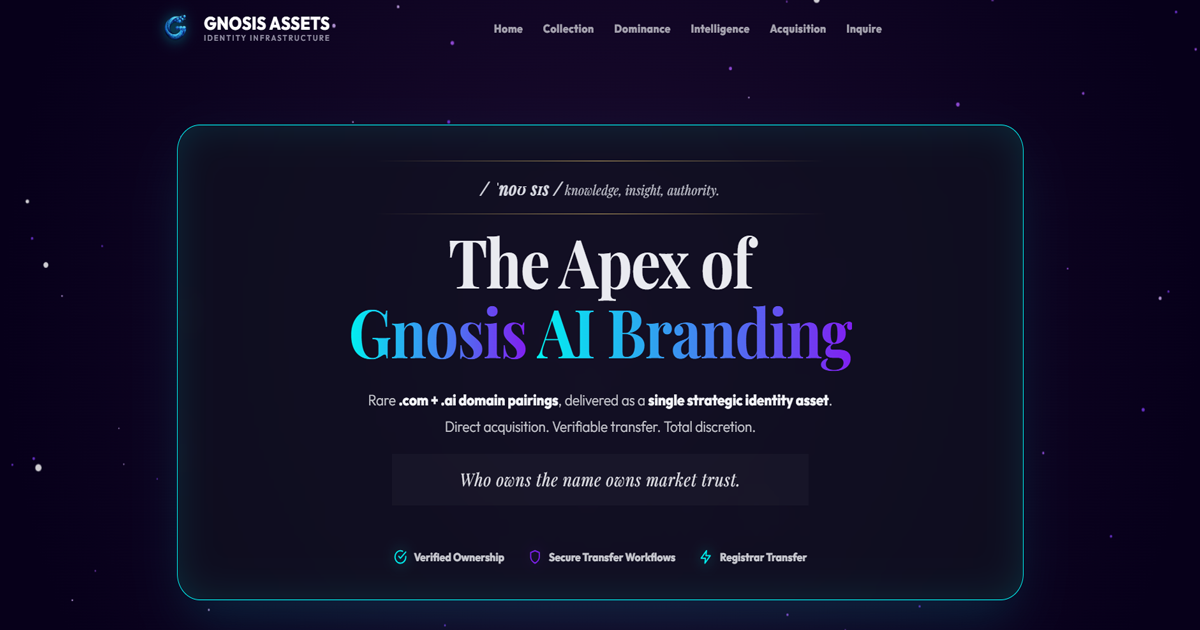
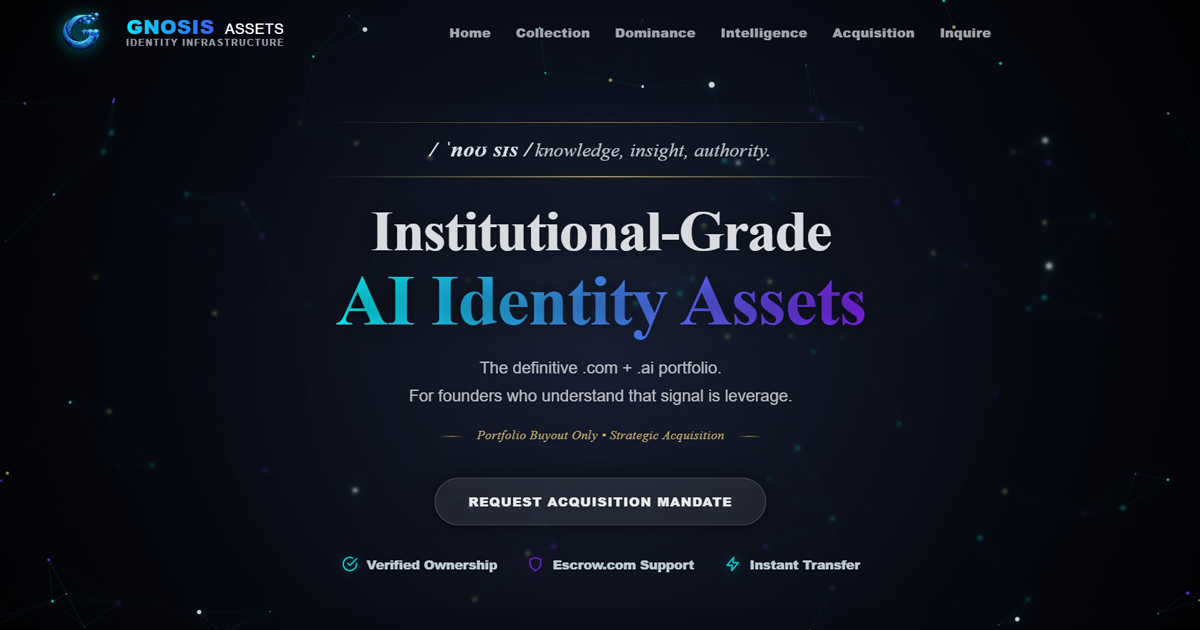
Add files via upload

diff --git a/index.html b/index.html
@@ -3068,26 +3068,8 @@ dialog::backdrop {
     }
 }
 
-@media (max-width: 520px){
 
-  header{
-    top: 10px;
-  }
 
-  body{
-    padding-top: 10px;
-  }
-}
-@media (max-width: 520px){
-
-  header{
-    top: 10px;
-  }
-
-  body{
-    padding-top: 10px;
-  }
-}
 /* ===== HERO — Quiet Institutional / Open Space ===== */
 
 .hero{
@@ -3610,6 +3592,69 @@ padding-top: calc(clamp(36px, 5vw, 64px) + 10px) !important;
 }
 
 
+
+
+/* ================================
+   TRUST SECTION (Extracted)
+================================ */
+.trust-section{
+  padding: clamp(42px, 5vw, 70px) 0;
+  border-top: 1px solid rgba(255,255,255,.05);
+}
+.trust-section .trust-row{
+  margin-top: 26px;
+}
+@media (max-width: 560px){
+  .trust-section .trust-row{
+    flex-direction: column;
+    align-items: flex-start;
+    gap: 12px;
+  }
+}
+
+/* ================================
+   DUPLICATE BUCKET (Mark for removal)
+================================ */
+.duplicate-bucket{
+  margin: 40px auto;
+  max-width: 860px;
+  padding: 16px 18px;
+  border-radius: 18px;
+  border: 1px dashed rgba(242,208,115,.30);
+  background: rgba(242,208,115,.05);
+  color: rgba(243,244,248,.70);
+  text-align: center;
+  font-weight: 700;
+}
+/* Gradient ONLY for the domain name (h3), keep .tlds solid */
+.card h3{
+  font-family: var(--serif);
+  font-size: clamp(1.7rem, 2.6vw, 2.5rem);
+  letter-spacing: -0.5px;
+  line-height: 1.05;
+
+  background: linear-gradient(90deg, #eefeff 0%, #2979ff 45%, #8f00ff 100%);
+  -webkit-background-clip: text;
+  background-clip: text;
+  -webkit-text-fill-color: transparent;
+}
+
+/* IMPORTANT: Cancel gradient effect for .tlds even if it's inside the h3 */
+.card h3 .tlds{
+  background: none !important;
+  -webkit-background-clip: initial !important;
+  background-clip: initial !important;
+
+  -webkit-text-fill-color: rgba(0, 240, 240, .95) !important;
+  color: rgba(0, 240, 240, .95) !important;
+}
+
+/* If you have spans for parts like Base/Flow that had their own colors */
+.card h3 span:not(.tlds){
+  color: inherit !important;
+  -webkit-text-fill-color: inherit !important;
+}
+
 </style>
 </head>
 <body>
@@ -3654,6 +3699,9 @@ padding-top: calc(clamp(36px, 5vw, 64px) + 10px) !important;
     </div>
 </div>
 <main id="main-content">
+    <!-- =====================================================
+         Hero / Primary Value Proposition
+         ===================================================== -->
     <section aria-label="Hero" class="hero" id="home">
         <div class="container">
             <div class="hero-box">
@@ -3678,67 +3726,32 @@ padding-top: calc(clamp(36px, 5vw, 64px) + 10px) !important;
                         View Assets
                     </a>
                 </div>
-                <div aria-label="Trust signals" class="trust-row" style="margin-top: 40px;">
+                </div>
+        </div>
+    </section>
+
+    <!-- =====================================================
+         Trust Signals
+         - Extracted from Hero to avoid duplication
+         - Mobile: keep as 1-column stack
+         ===================================================== -->
+    <section aria-label="Trust" class="trust-section grid-overlay" id="trust">
+        <div class="container">
+            <div class="kicker">CREDIBILITY</div>
+            <div class="h2">Verified Signals</div>
+            <div class="sub">Institutional-grade assurances, shown once and referenced everywhere.</div>
+            <div aria-label="Trust signals" class="trust-row" style="margin-top: 40px;">
                     <div class="trust"><svg aria-hidden="true" class="ico s18"><use href="#i-check-circle"></use></svg> Verified Ownership</div>
                     <div class="trust"><svg aria-hidden="true" class="ico s18"><use href="#i-shield"></use></svg> Escrow.com Support</div>
                     <div class="trust"><svg aria-hidden="true" class="ico s18"><use href="#i-bolt"></use></svg> Instant Transfer</div>
                 </div>
-            </div>
         </div>
     </section>
-    <section aria-label="The Anatomy of Dominance" class="dominance grid-overlay" id="dominance">
-        <div class="container">
-            <div class="kicker">THE ANATOMY OF DOMINANCE</div>
-            <div class="h2">Why <span class="word-cyan">Gnosis</span></div>
-            <div class="sub">Not a product listing. A strategic position. Built to signal authority before the first pitch deck.</div>
-            <div class="dom-row dom-row-top reveal">
-                <div class="dom-copy dominance-text">
-                    <h3 class="dom-h3">Why Gnosis — and why now</h3>
-                    <p class="dom-p">
-                        In the agentic era, identity is infrastructure.
-                        A primary .com paired with its .ai counterpart defines the address, authority, and defensible perimeter of a modern AI company.
-                    </p>
-                    <p class="dom-p">
-                        Gnosis curates dual-asset bundles that feel inevitable — pronounceable, memorable, and legally clean — engineered to remove friction before a product is ever explained.
-                    </p>
-                    <p class="dom-p dom-muted">
-                        This is not marketing polish.
-                        It is strategic positioning with real leverage and resale liquidity.
-                    </p>
-                </div>
-                <div aria-hidden="true" class="dom-media">
-                    <img alt="Gnosis assets mark" class="dom-img" src="gnosis-assets-mark.png"/>
-                </div>
-            </div>
-            <div class="dom-row dom-row-bottom reveal">
-                <div aria-hidden="true" class="dom-media">
-                    <img alt="Dual asset standard" class="dom-img" src="dual-asset-standard.png"/>
-                    <div class="dom-caption">Identity Infrastructure • Institutional-grade signal</div>
-                </div>
-                <div class="dom-cards">
-                    <div class="dom-lead-card">
-                        <strong>Gnosis</strong> is a rare linguistic asset with immediate recall. Paired as <strong>.com + .ai</strong>, it becomes a
-                        defensive moat across both global trust and technical authority.
-                    </div>
-                    <div class="dom-point">
-                        <div class="dom-point-title">Instant legitimacy</div>
-                        <div class="dom-point-body">A name investors don’t question. A URL customers remember.</div>
-                    </div>
-                    <div class="dom-point">
-                        <div class="dom-point-title">Category anchor</div>
-                        <div class="dom-point-body">Short, premium, and defensible — built for AI platforms and infrastructure.</div>
-                    </div>
-                    <div class="dom-point">
-                        <div class="dom-point-title">Strategic moat</div>
-                        <div class="dom-point-body">One owner. Two namespaces. Less squatting, cleaner negotiations.</div>
-                    </div>
-                    <div class="dom-alert">
-                        PORTFOLIO-ONLY AVAILABILITY — ONCE ACQUIRED, THE ENTIRE NAMING SYSTEM BECOMES UNAVAILABLE.
-                    </div>
-                </div>
-            </div>
-        </div>
-    </section>
+
+
+    <!-- =====================================================
+         Portfolio / Curated Domain Assets
+         ===================================================== -->
     <section aria-label="Collection" class="portfolio" id="collection">
         <div class="container">
             <div class="kicker">THE PORTFOLIO</div>
@@ -3825,6 +3838,67 @@ padding-top: calc(clamp(36px, 5vw, 64px) + 10px) !important;
             </div>
         </div>
     </section>
+
+    <!-- =====================================================
+         Value & Dominance / Strategic Market Position
+         ===================================================== -->
+    <section aria-label="The Anatomy of Dominance" class="dominance grid-overlay" id="dominance">
+        <div class="container">
+            <div class="kicker">THE ANATOMY OF DOMINANCE</div>
+            <div class="h2">Why <span class="word-cyan">Gnosis</span></div>
+            <div class="sub">Not a product listing. A strategic position. Built to signal authority before the first pitch deck.</div>
+            <div class="dom-row dom-row-top reveal">
+                <div class="dom-copy dominance-text">
+                    <h3 class="dom-h3">Why Gnosis — and why now</h3>
+                    <p class="dom-p">
+                        In the agentic era, identity is infrastructure.
+                        A primary .com paired with its .ai counterpart defines the address, authority, and defensible perimeter of a modern AI company.
+                    </p>
+                    <p class="dom-p">
+                        Gnosis curates dual-asset bundles that feel inevitable — pronounceable, memorable, and legally clean — engineered to remove friction before a product is ever explained.
+                    </p>
+                    <p class="dom-p dom-muted">
+                        This is not marketing polish.
+                        It is strategic positioning with real leverage and resale liquidity.
+                    </p>
+                </div>
+                <div aria-hidden="true" class="dom-media">
+                    <img alt="Gnosis assets mark" class="dom-img" src="gnosis-assets-mark.png"/>
+                </div>
+            </div>
+            <div class="dom-row dom-row-bottom reveal">
+                <div aria-hidden="true" class="dom-media">
+                    <img alt="Dual asset standard" class="dom-img" src="dual-asset-standard.png"/>
+                    <div class="dom-caption">Identity Infrastructure • Institutional-grade signal</div>
+                </div>
+                <div class="dom-cards">
+                    <div class="dom-lead-card">
+                        <strong>Gnosis</strong> is a rare linguistic asset with immediate recall. Paired as <strong>.com + .ai</strong>, it becomes a
+                        defensive moat across both global trust and technical authority.
+                    </div>
+                    <div class="dom-point">
+                        <div class="dom-point-title">Instant legitimacy</div>
+                        <div class="dom-point-body">A name investors don’t question. A URL customers remember.</div>
+                    </div>
+                    <div class="dom-point">
+                        <div class="dom-point-title">Category anchor</div>
+                        <div class="dom-point-body">Short, premium, and defensible — built for AI platforms and infrastructure.</div>
+                    </div>
+                    <div class="dom-point">
+                        <div class="dom-point-title">Strategic moat</div>
+                        <div class="dom-point-body">One owner. Two namespaces. Less squatting, cleaner negotiations.</div>
+                    </div>
+                    <div class="dom-alert">
+                        PORTFOLIO-ONLY AVAILABILITY — ONCE ACQUIRED, THE ENTIRE NAMING SYSTEM BECOMES UNAVAILABLE.
+                    </div>
+                </div>
+            </div>
+        </div>
+    </section>
+
+    <!-- =====================================================
+         Strategic Intelligence / Market Insight
+         ===================================================== -->
     <section aria-label="Strategic Intelligence" class="si-section" id="intelligence">
         <div class="si-container">
             <div class="si-kicker">STRATEGIC INTELLIGENCE</div>
@@ -3859,6 +3933,10 @@ padding-top: calc(clamp(36px, 5vw, 64px) + 10px) !important;
             <div class="si-hint">Swipe horizontally • Two minutes per report</div>
         </div>
     </section>
+
+    <!-- =====================================================
+         Acquisition Process + Security & Assurance
+         ===================================================== -->
     <section aria-label="Security" class="acq2 grid-overlay" id="security">
         <div class="container">
             <div class="kicker">SECURE ACQUISITION</div>
@@ -3914,6 +3992,10 @@ padding-top: calc(clamp(36px, 5vw, 64px) + 10px) !important;
             </section>
         </div>
     </section>
+
+    <!-- =====================================================
+         Inquiry / Private Acquisition Contact
+         ===================================================== -->
     <section aria-label="Inquiry" class="inquiry grid-overlay" id="inquiry">
         <div class="container">
             <div class="h2">Private Mandate</div>
@@ -4032,9 +4114,11 @@ padding-top: calc(clamp(36px, 5vw, 64px) + 10px) !important;
         </div>
     </section>
 </main>
-<p style="text-align:center; font-size:0.9rem; letter-spacing:0.04em; opacity:0.75; margin:40px auto;">
-    Identity decisions compound. Early clarity costs less than late correction.
-</p>
+<!-- =====================================================
+     Duplicate copy bucket (remove later)
+     NOTE: This line is repeated conceptually elsewhere.
+     ===================================================== -->
+<div class="duplicate-bucket">Identity decisions compound. Early clarity costs less than late correction.</div>
 <footer class="site-footer">
     <div class="container">
         <div class="footer-status-pill">
